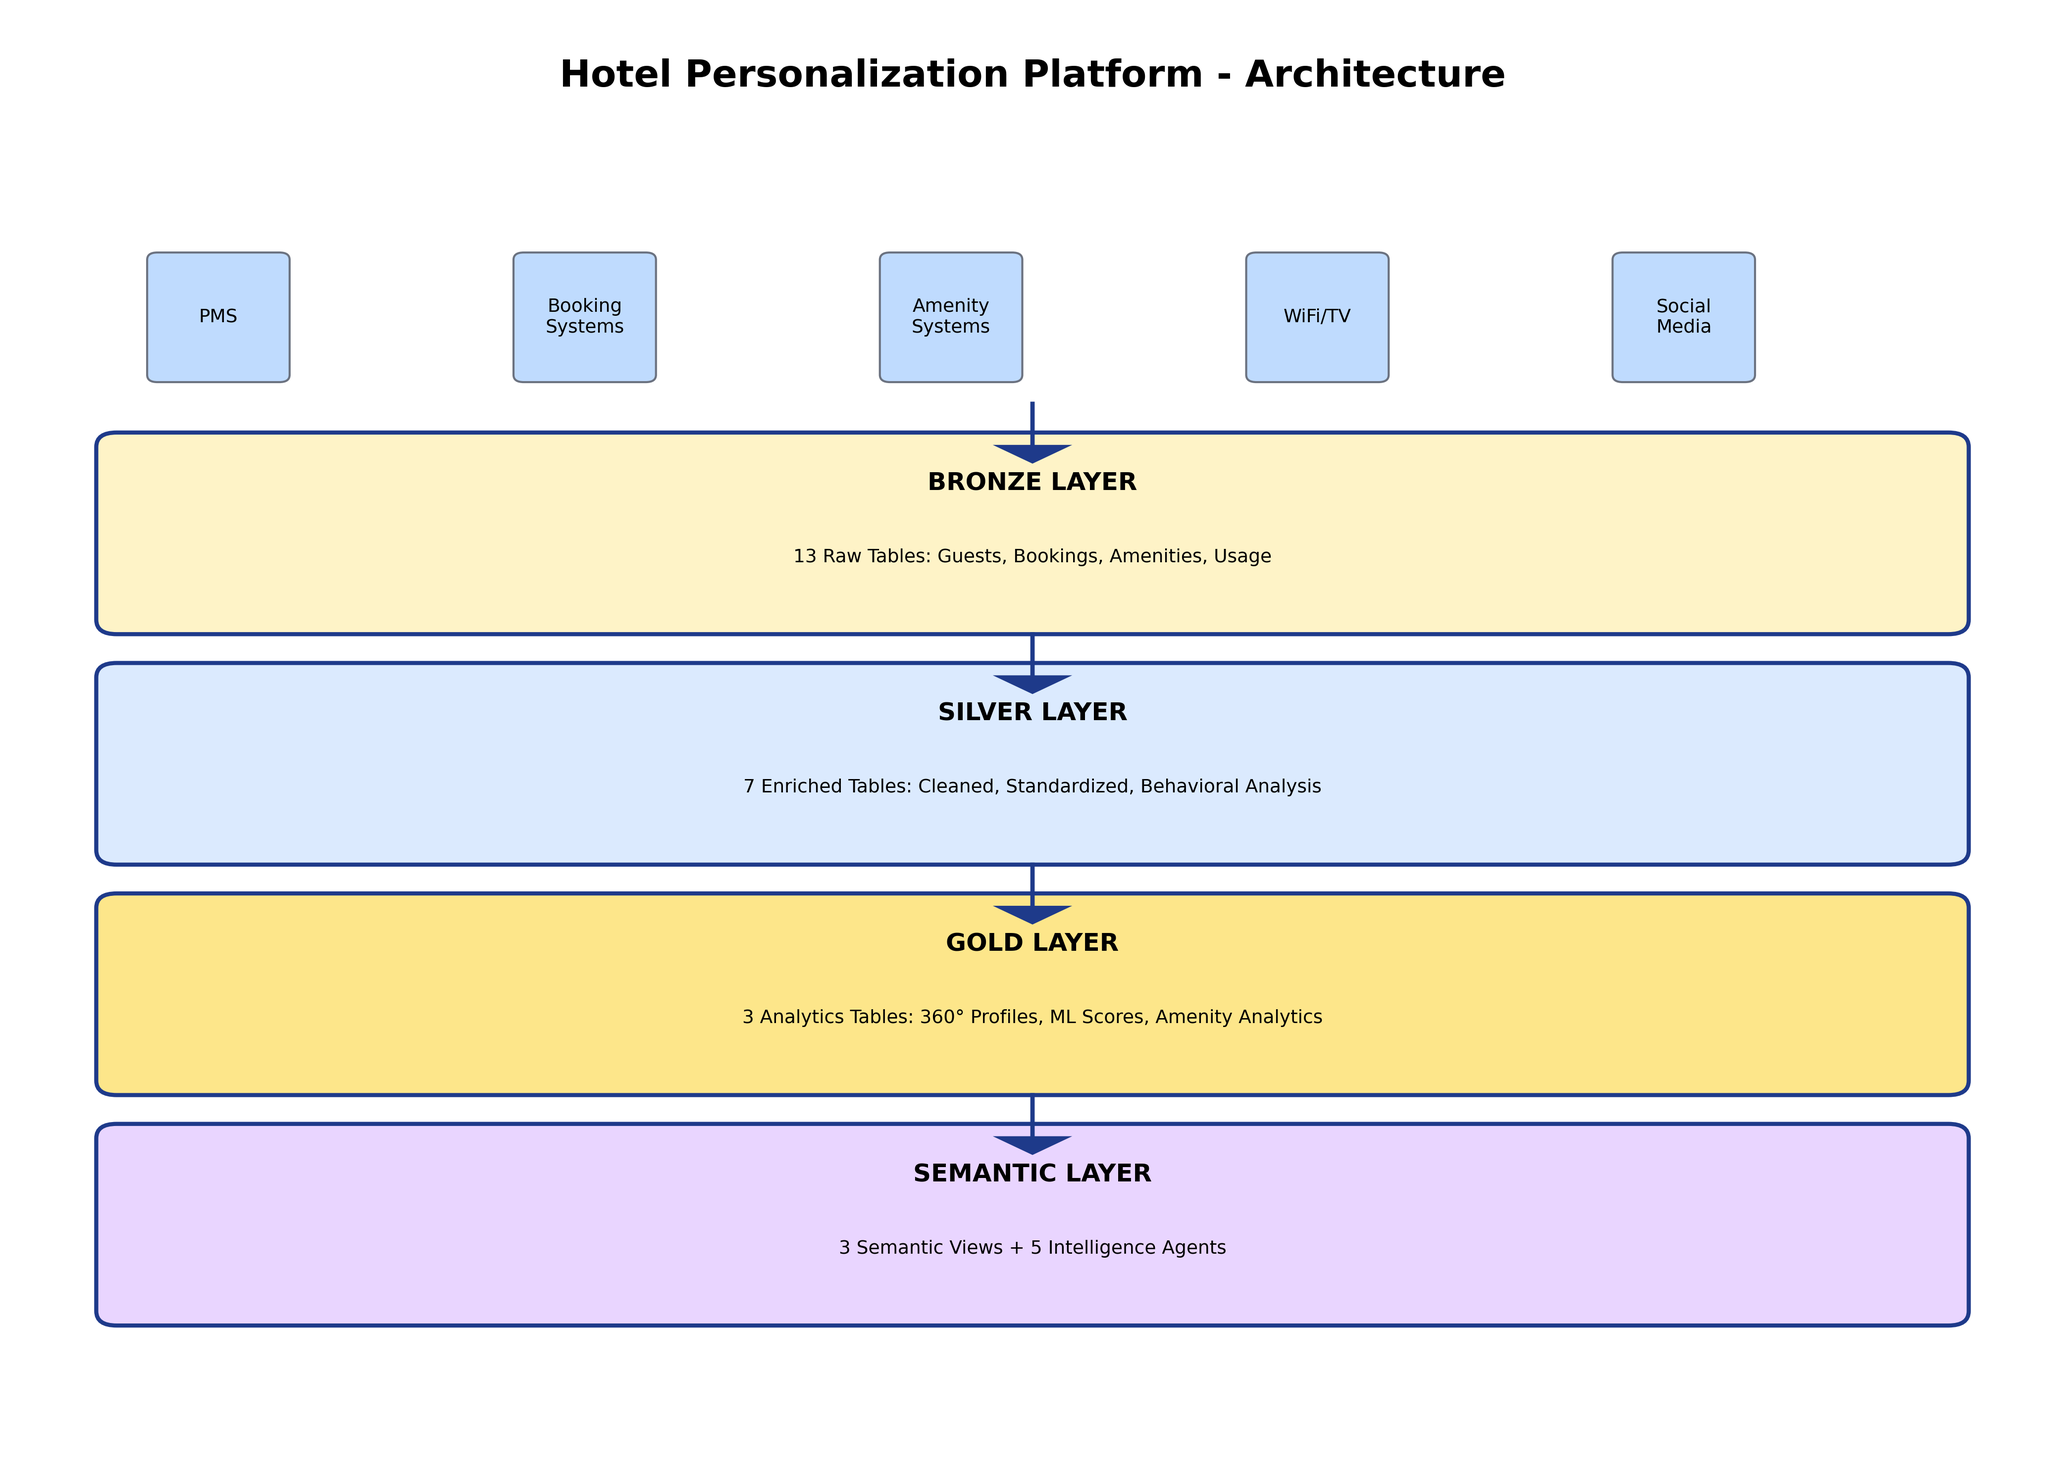
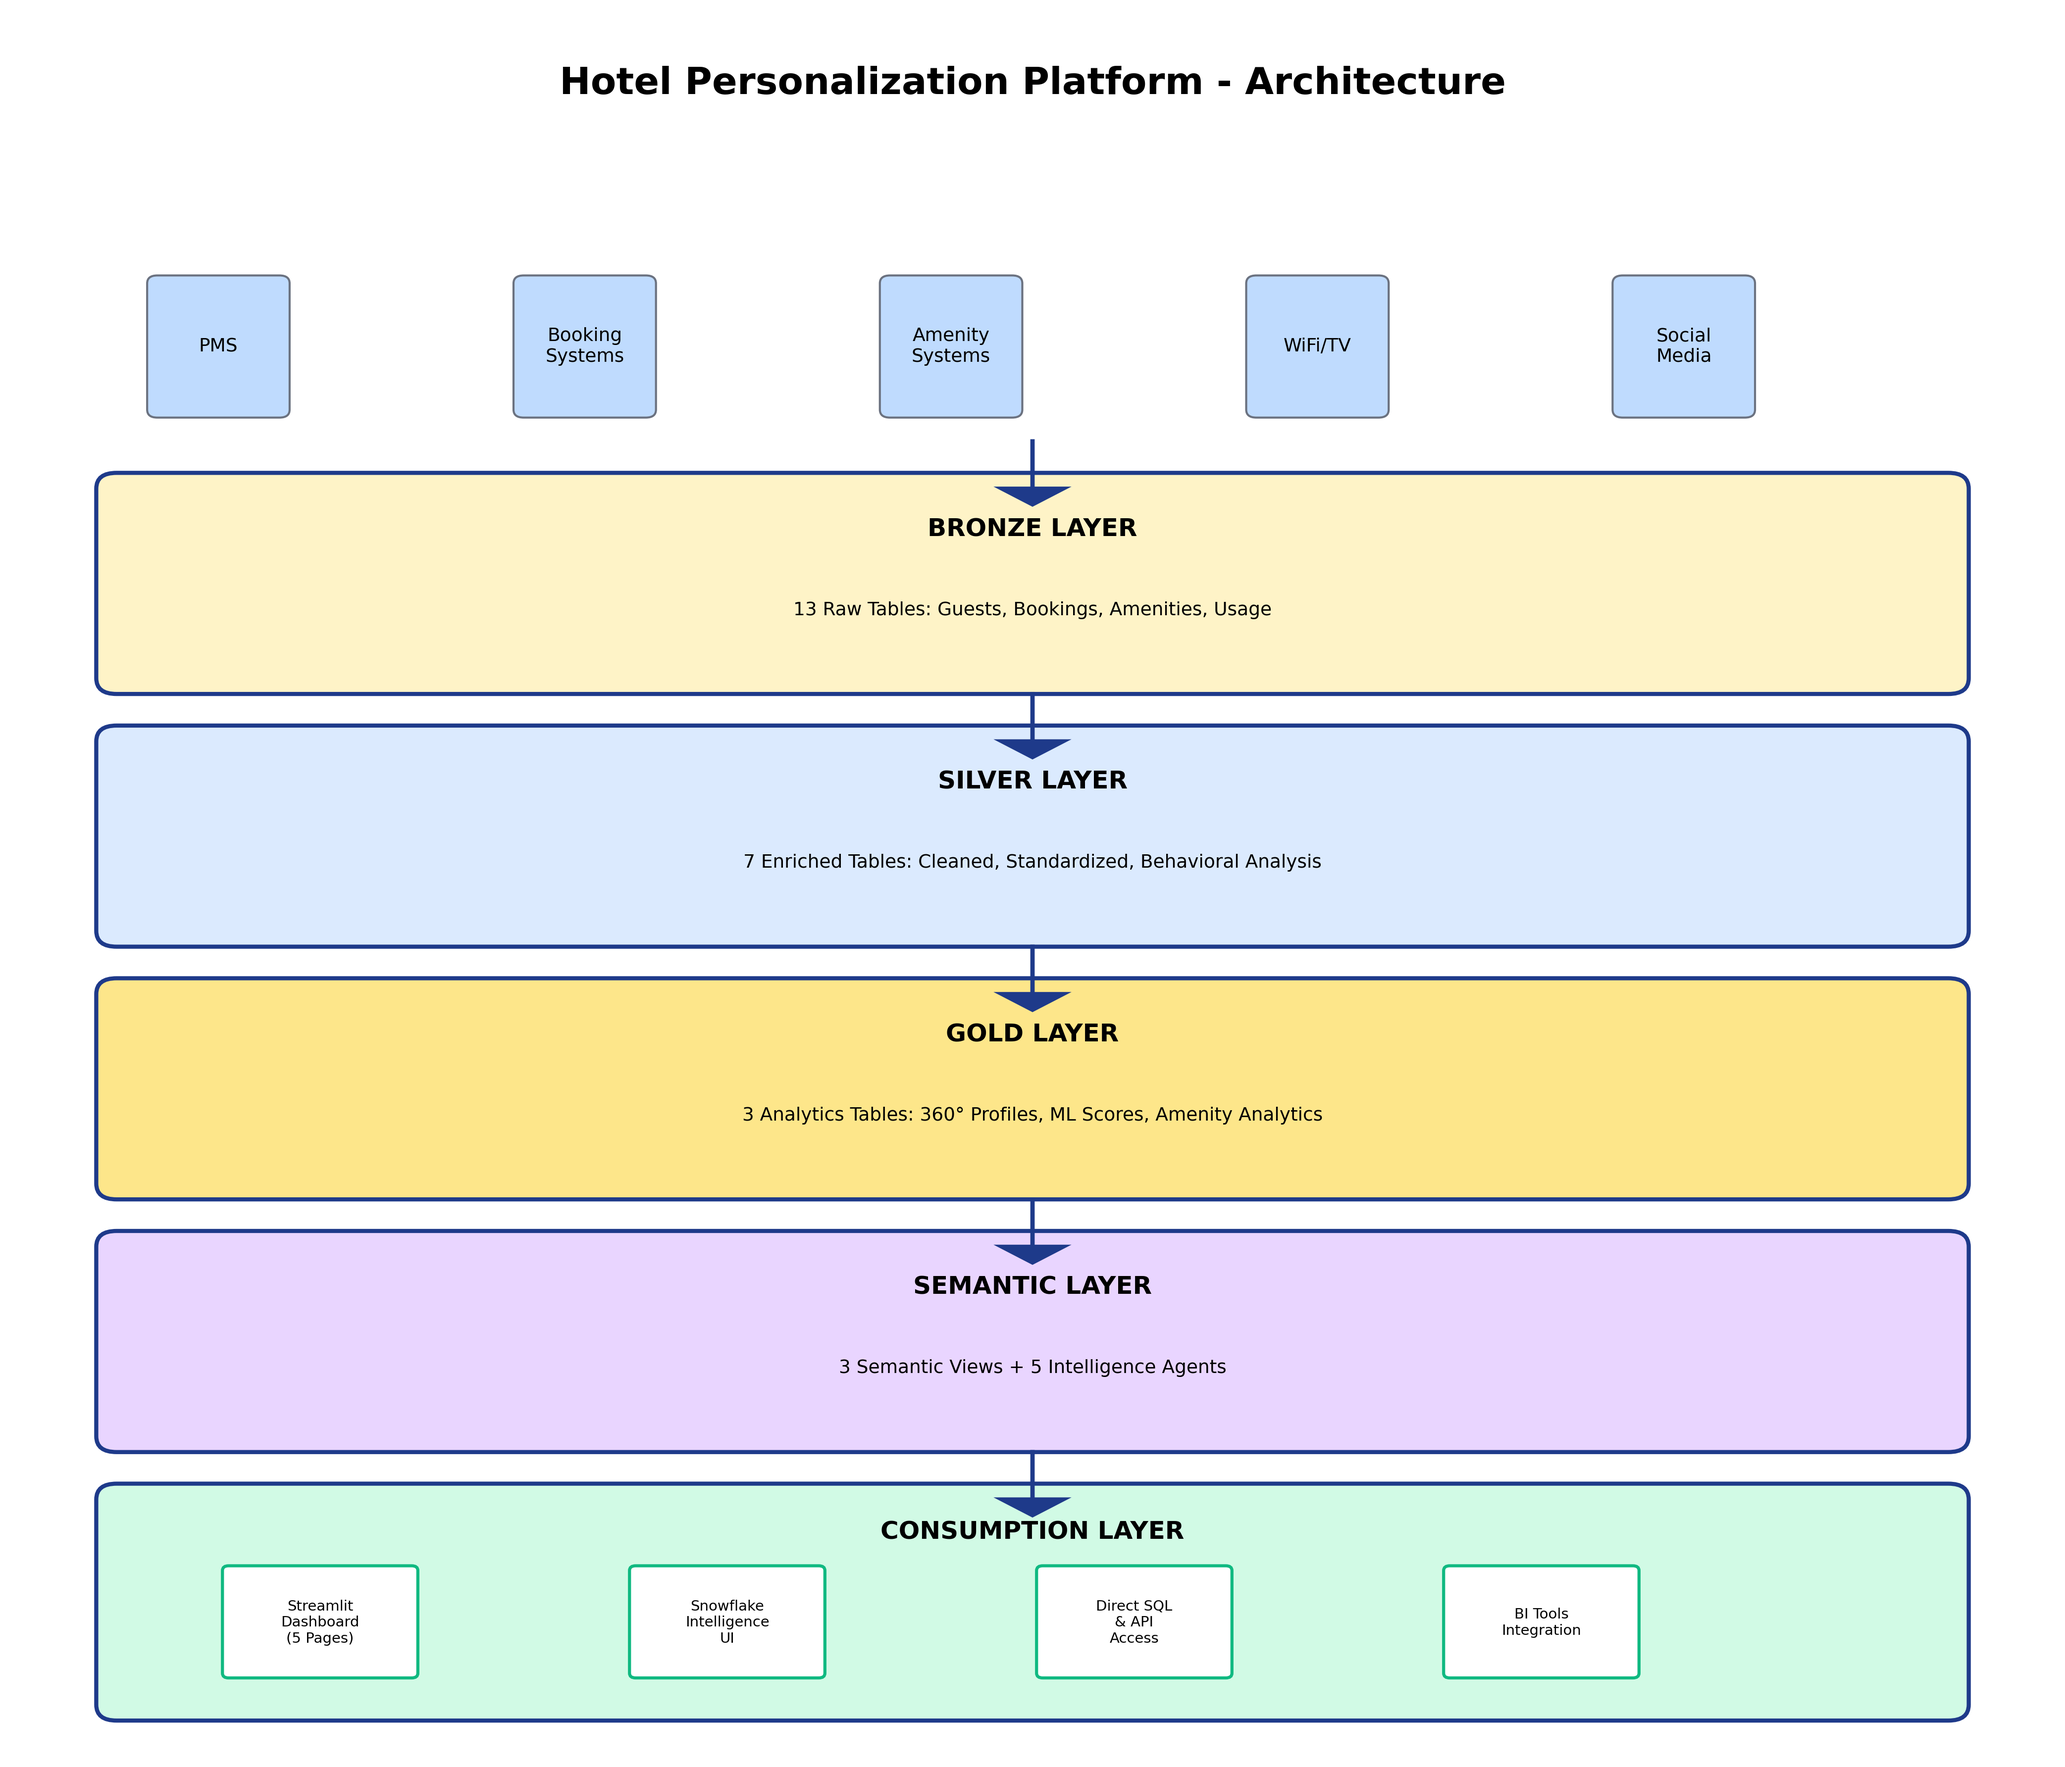
Diagrams: Add Consumption Layer with Streamlit to architecture diagrams
Major Updates to Architecture Visualization:

1. Updated generate_images.py:
   - Enhanced create_architecture_diagram() to include CONSUMPTION LAYER
   - Added 4 consumption components as separate boxes:
     * Streamlit Dashboard (5 Pages)
     * Snowflake Intelligence UI
     * Direct SQL & API Access
     * BI Tools Integration
   - Updated create_medallion_diagram() for complete architecture
   - Changed title to 'Complete Data Architecture'
   - Added subtitle showing full flow: Bronze → Silver → Gold → Semantic → Consumption
   - Increased figure sizes for better visibility
   - Used light green (#D1FAE5) for consumption layer consistency

2. Regenerated Images:
   - architecture_overview.png: Now shows 6 layers (added Consumption at bottom)
   - medallion_architecture.png: Now shows complete 5-layer architecture

3. Simplified Solution Overview Documentation:
   - Removed redundant text-based architecture flow
   - Simplified description since diagram now shows complete architecture
   - Updated to reference 'Bronze → Silver → Gold → Semantic → Consumption'

Visual Improvements:
- Clear visual separation of consumption methods
- Professional light green color for consumption layer
- Proper spacing and sizing for 6-layer architecture
- Consistent styling across all layers
- High-resolution PNG output (300 DPI)

Benefits:
- Architecture diagram now accurately represents complete platform
- Streamlit dashboard prominence in visual architecture
[…]

diff --git a/solution_presentation/generate_images.py b/solution_presentation/generate_images.py
@@ -2,15 +2,13 @@
 """
 Generate presentation-quality diagrams for Hotel Personalization Solution Overview.
 
-Creates 8 professional diagrams:
-1. Architecture Overview
+Creates 6 professional diagrams:
+1. Architecture Overview (with Consumption Layer including Streamlit)
 2. Data Sources
-3. Medallion Architecture
+3. Medallion Architecture (Complete: Bronze → Silver → Gold → Semantic → Consumption)
 4. ML Scoring Models
 5. Intelligence Agents
 6. Unified Amenity Analytics
-7. Data Flow
-8. Use Case Workflow
 
 Requirements:
     pip install matplotlib pillow
@@ -39,63 +37,84 @@ GRAY = '#6B7280'
 
 def create_architecture_diagram():
     """Create architecture overview diagram."""
-    fig, ax = plt.subplots(1, 1, figsize=(14, 10))
+    fig, ax = plt.subplots(1, 1, figsize=(14, 12))
     ax.set_xlim(0, 10)
-    ax.set_ylim(0, 10)
+    ax.set_ylim(0, 11)
     ax.axis('off')
     
     # Title
-    ax.text(5, 9.5, 'Hotel Personalization Platform - Architecture', 
+    ax.text(5, 10.5, 'Hotel Personalization Platform - Architecture', 
             ha='center', fontsize=18, fontweight='bold')
     
     # Data Sources Layer
     sources = ['PMS', 'Booking\nSystems', 'Amenity\nSystems', 'WiFi/TV', 'Social\nMedia']
     for i, source in enumerate(sources):
         x = 1 + i * 1.8
-        rect = patches.FancyBboxPatch((x - 0.3, 7.5), 0.6, 0.8,
+        rect = patches.FancyBboxPatch((x - 0.3, 8.5), 0.6, 0.8,
                                        boxstyle="round,pad=0.05", 
                                        edgecolor=GRAY, facecolor=LIGHT_BLUE)
         ax.add_patch(rect)
-        ax.text(x, 7.9, source, ha='center', va='center', fontsize=9)
+        ax.text(x, 8.9, source, ha='center', va='center', fontsize=9)
     
     # Bronze Layer
-    rect = patches.FancyBboxPatch((0.5, 5.8), 9, 1.2,
+    rect = patches.FancyBboxPatch((0.5, 6.8), 9, 1.2,
                                    boxstyle="round,pad=0.1",
                                    edgecolor=DARK_BLUE, facecolor='#FEF3C7', linewidth=2)
     ax.add_patch(rect)
-    ax.text(5, 6.7, 'BRONZE LAYER', ha='center', fontweight='bold', fontsize=12)
-    ax.text(5, 6.2, '13 Raw Tables: Guests, Bookings, Amenities, Usage', 
+    ax.text(5, 7.7, 'BRONZE LAYER', ha='center', fontweight='bold', fontsize=12)
+    ax.text(5, 7.2, '13 Raw Tables: Guests, Bookings, Amenities, Usage', 
             ha='center', fontsize=9)
     
     # Silver Layer
-    rect = patches.FancyBboxPatch((0.5, 4.2), 9, 1.2,
+    rect = patches.FancyBboxPatch((0.5, 5.2), 9, 1.2,
                                    boxstyle="round,pad=0.1",
                                    edgecolor=DARK_BLUE, facecolor='#DBEAFE', linewidth=2)
     ax.add_patch(rect)
-    ax.text(5, 5.1, 'SILVER LAYER', ha='center', fontweight='bold', fontsize=12)
-    ax.text(5, 4.6, '7 Enriched Tables: Cleaned, Standardized, Behavioral Analysis', 
+    ax.text(5, 6.1, 'SILVER LAYER', ha='center', fontweight='bold', fontsize=12)
+    ax.text(5, 5.6, '7 Enriched Tables: Cleaned, Standardized, Behavioral Analysis', 
             ha='center', fontsize=9)
     
     # Gold Layer
-    rect = patches.FancyBboxPatch((0.5, 2.6), 9, 1.2,
+    rect = patches.FancyBboxPatch((0.5, 3.6), 9, 1.2,
                                    boxstyle="round,pad=0.1",
                                    edgecolor=DARK_BLUE, facecolor='#FDE68A', linewidth=2)
     ax.add_patch(rect)
-    ax.text(5, 3.5, 'GOLD LAYER', ha='center', fontweight='bold', fontsize=12)
-    ax.text(5, 3.0, '3 Analytics Tables: 360° Profiles, ML Scores, Amenity Analytics', 
+    ax.text(5, 4.5, 'GOLD LAYER', ha='center', fontweight='bold', fontsize=12)
+    ax.text(5, 4.0, '3 Analytics Tables: 360° Profiles, ML Scores, Amenity Analytics', 
             ha='center', fontsize=9)
     
     # Semantic Layer
-    rect = patches.FancyBboxPatch((0.5, 1.0), 9, 1.2,
+    rect = patches.FancyBboxPatch((0.5, 2.0), 9, 1.2,
                                    boxstyle="round,pad=0.1",
                                    edgecolor=DARK_BLUE, facecolor='#E9D5FF', linewidth=2)
     ax.add_patch(rect)
-    ax.text(5, 1.9, 'SEMANTIC LAYER', ha='center', fontweight='bold', fontsize=12)
-    ax.text(5, 1.4, '3 Semantic Views + 5 Intelligence Agents', 
+    ax.text(5, 2.9, 'SEMANTIC LAYER', ha='center', fontweight='bold', fontsize=12)
+    ax.text(5, 2.4, '3 Semantic Views + 5 Intelligence Agents', 
             ha='center', fontsize=9)
     
+    # Consumption Layer (NEW)
+    rect = patches.FancyBboxPatch((0.5, 0.3), 9, 1.3,
+                                   boxstyle="round,pad=0.1",
+                                   edgecolor=DARK_BLUE, facecolor='#D1FAE5', linewidth=2)
+    ax.add_patch(rect)
+    ax.text(5, 1.35, 'CONSUMPTION LAYER', ha='center', fontweight='bold', fontsize=12)
+    
+    # Consumption components as boxes
+    consumption_items = [
+        ('Streamlit\nDashboard\n(5 Pages)', 1.5),
+        ('Snowflake\nIntelligence\nUI', 3.5),
+        ('Direct SQL\n& API\nAccess', 5.5),
+        ('BI Tools\nIntegration', 7.5)
+    ]
+    for item, x in consumption_items:
+        small_rect = patches.FancyBboxPatch((x - 0.45, 0.5), 0.9, 0.65,
+                                           boxstyle="round,pad=0.03",
+                                           edgecolor=GREEN, facecolor='white', linewidth=1.5)
+        ax.add_patch(small_rect)
+        ax.text(x, 0.82, item, ha='center', va='center', fontsize=7)
+    
     # Arrows
-    for y in [7.3, 5.7, 4.1, 2.5]:
+    for y in [8.3, 6.7, 5.1, 3.5, 1.9]:
         ax.arrow(5, y, 0, -0.3, head_width=0.3, head_length=0.1, 
                 fc=DARK_BLUE, ec=DARK_BLUE, linewidth=2)
     
@@ -271,32 +290,48 @@ def create_data_sources_diagram():
     print(f"✓ Created data_sources.png")
 
 def create_medallion_diagram():
-    """Create medallion architecture diagram."""
-    fig, ax = plt.subplots(1, 1, figsize=(10, 8))
+    """Create medallion architecture diagram with consumption layer."""
+    fig, ax = plt.subplots(1, 1, figsize=(10, 10))
     ax.set_xlim(0, 10)
-    ax.set_ylim(0, 10)
+    ax.set_ylim(0, 11)
     ax.axis('off')
     
-    ax.text(5, 9.5, 'Medallion Architecture: Bronze → Silver → Gold', 
+    ax.text(5, 10.3, 'Complete Data Architecture', 
             ha='center', fontsize=14, fontweight='bold')
+    ax.text(5, 9.8, 'Bronze → Silver → Gold → Semantic → Consumption', 
+            ha='center', fontsize=10, style='italic', color=GRAY)
     
     layers = [
-        ('BRONZE', 7, '#FEF3C7', '13 Raw Tables\nNo Transformation\nSource Fidelity'),
-        ('SILVER', 4.5, '#DBEAFE', '7 Enriched Tables\nCleaned & Standardized\nBehavioral Analysis'),
-        ('GOLD', 2, '#FDE68A', '3 Analytics Tables\n360° Profiles\nML Scores')
+        ('BRONZE', 8, '#FEF3C7', '13 Raw Tables\nNo Transformation\nSource Fidelity'),
+        ('SILVER', 6, '#DBEAFE', '7 Enriched Tables\nCleaned & Standardized\nBehavioral Analysis'),
+        ('GOLD', 4, '#FDE68A', '3 Analytics Tables\n360° Profiles\nML Scores'),
+        ('SEMANTIC', 2, '#E9D5FF', '3 Semantic Views\n5 Intelligence Agents\nNatural Language')
     ]
     
     for name, y, color, desc in layers:
-        rect = patches.FancyBboxPatch((2, y - 0.8), 6, 1.6,
+        rect = patches.FancyBboxPatch((2, y - 0.7), 6, 1.4,
                                        boxstyle="round,pad=0.1",
                                        edgecolor=DARK_BLUE, facecolor=color, linewidth=2)
         ax.add_patch(rect)
-        ax.text(5, y + 0.4, name, ha='center', fontweight='bold', fontsize=12)
-        ax.text(5, y - 0.3, desc, ha='center', fontsize=8)
+        ax.text(5, y + 0.35, name, ha='center', fontweight='bold', fontsize=11)
+        ax.text(5, y - 0.25, desc, ha='center', fontsize=7.5)
         
         if y > 2:
-            ax.arrow(5, y - 0.9, 0, -0.5, head_width=0.3, head_length=0.1, 
+            ax.arrow(5, y - 0.8, 0, -0.4, head_width=0.3, head_length=0.1, 
                     fc=DARK_BLUE, ec=DARK_BLUE, linewidth=2)
+    
+    # Consumption Layer
+    rect = patches.FancyBboxPatch((1.5, 0.2), 7, 1.0,
+                                   boxstyle="round,pad=0.1",
+                                   edgecolor=GREEN, facecolor='#D1FAE5', linewidth=2.5)
+    ax.add_patch(rect)
+    ax.text(5, 0.9, 'CONSUMPTION', ha='center', fontweight='bold', fontsize=11)
+    ax.text(5, 0.5, 'Streamlit (5 Pages) • Intelligence UI • SQL Access • BI Tools', 
+            ha='center', fontsize=7.5)
+    
+    # Arrow to consumption
+    ax.arrow(5, 1.2, 0, -0.15, head_width=0.3, head_length=0.08, 
+            fc=DARK_BLUE, ec=DARK_BLUE, linewidth=2)
     
     plt.tight_layout()
     plt.savefig(f'{OUTPUT_DIR}/medallion_architecture.png', dpi=300, bbox_inches='tight')

diff --git a/solution_presentation/Hotel_Personalization_Solution_Overview.md b/solution_presentation/Hotel_Personalization_Solution_Overview.md
@@ -54,28 +54,7 @@ The Hotel Personalization Platform transforms raw operational data into actionab
 
 ![Architecture Diagram](images/architecture_overview.png)
 
-> **Architecture Note**: The diagram above shows the core data layers. The complete architecture also includes a **Consumption Layer** with the Streamlit Dashboard application ("Hotel Personalization - Pic'N Stays") that provides visual analytics and business intelligence interfaces for end users.
-
-**Complete Data Flow:**
-```
-Data Sources (PMS, Booking, Amenity, WiFi/TV, Social Media)
-           ↓
-    BRONZE LAYER (13 Raw Tables)
-           ↓
-    SILVER LAYER (7 Enriched Tables)
-           ↓
-    GOLD LAYER (3 Analytics Tables)
-           ↓
-    SEMANTIC LAYER (3 Views + 5 AI Agents)
-           ↓
-    CONSUMPTION LAYER
-    • Streamlit Dashboard (5 Pages)
-    • Snowflake Intelligence UI
-    • Direct SQL Access
-    • BI Tool Integration
-```
-
-The platform implements a modern **Medallion Architecture** (Bronze → Silver → Gold) across Snowflake:
+The platform implements a modern **Medallion Architecture** (Bronze → Silver → Gold → Semantic → Consumption) across Snowflake, providing a complete data pipeline from raw ingestion to business intelligence consumption:
 
 #### Bronze Layer: Raw Data Capture
 - **13 tables** capturing all guest touchpoints
